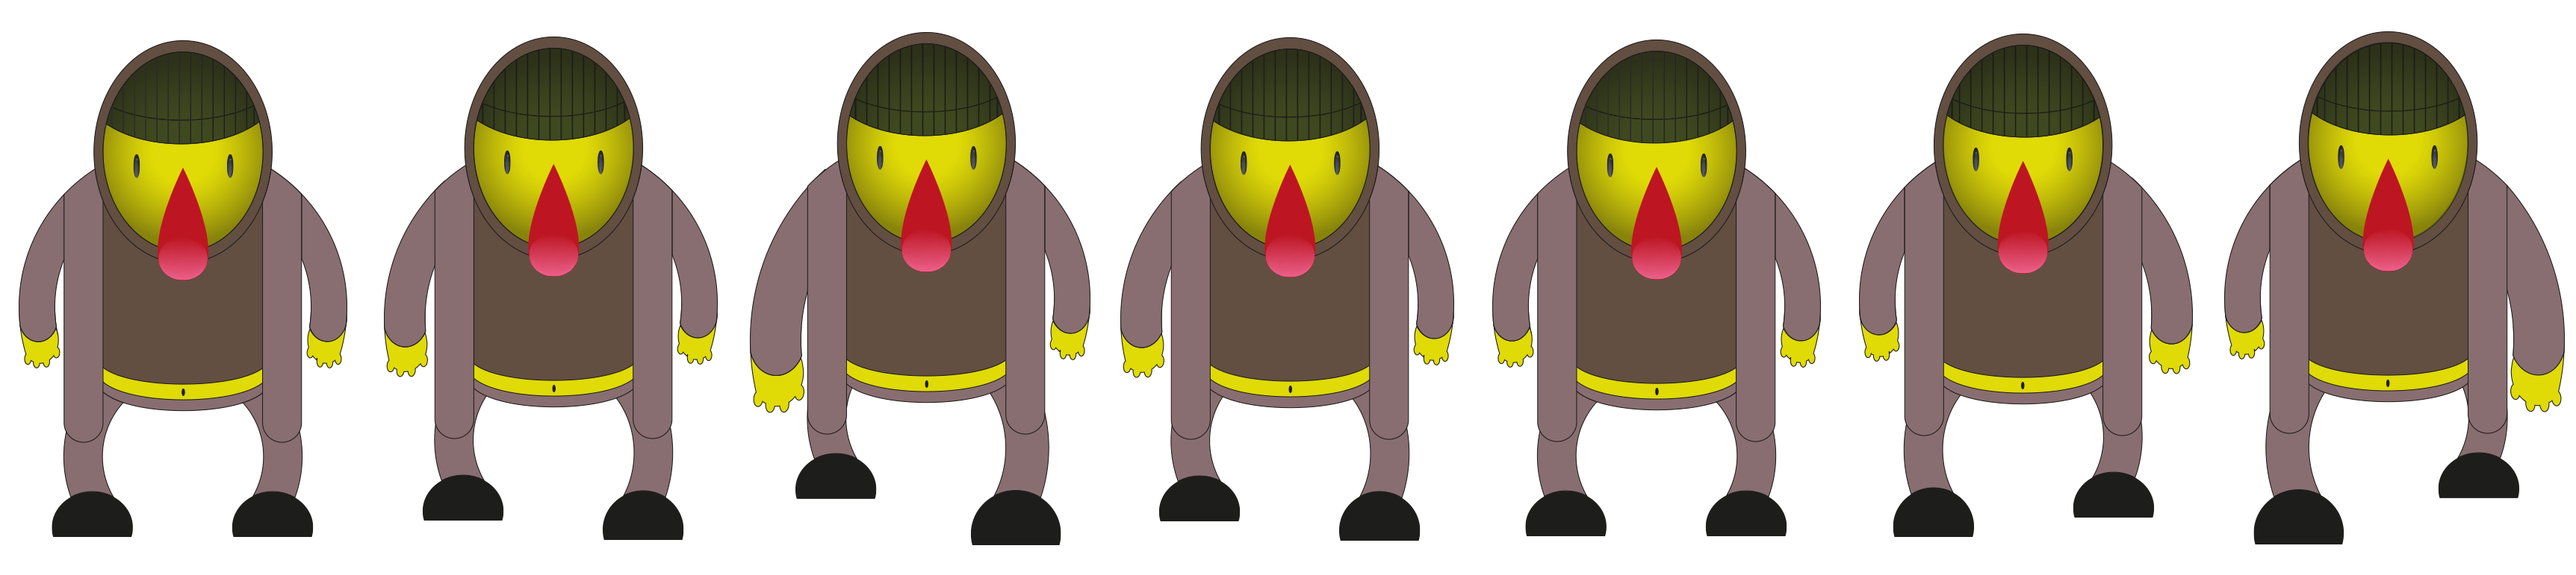
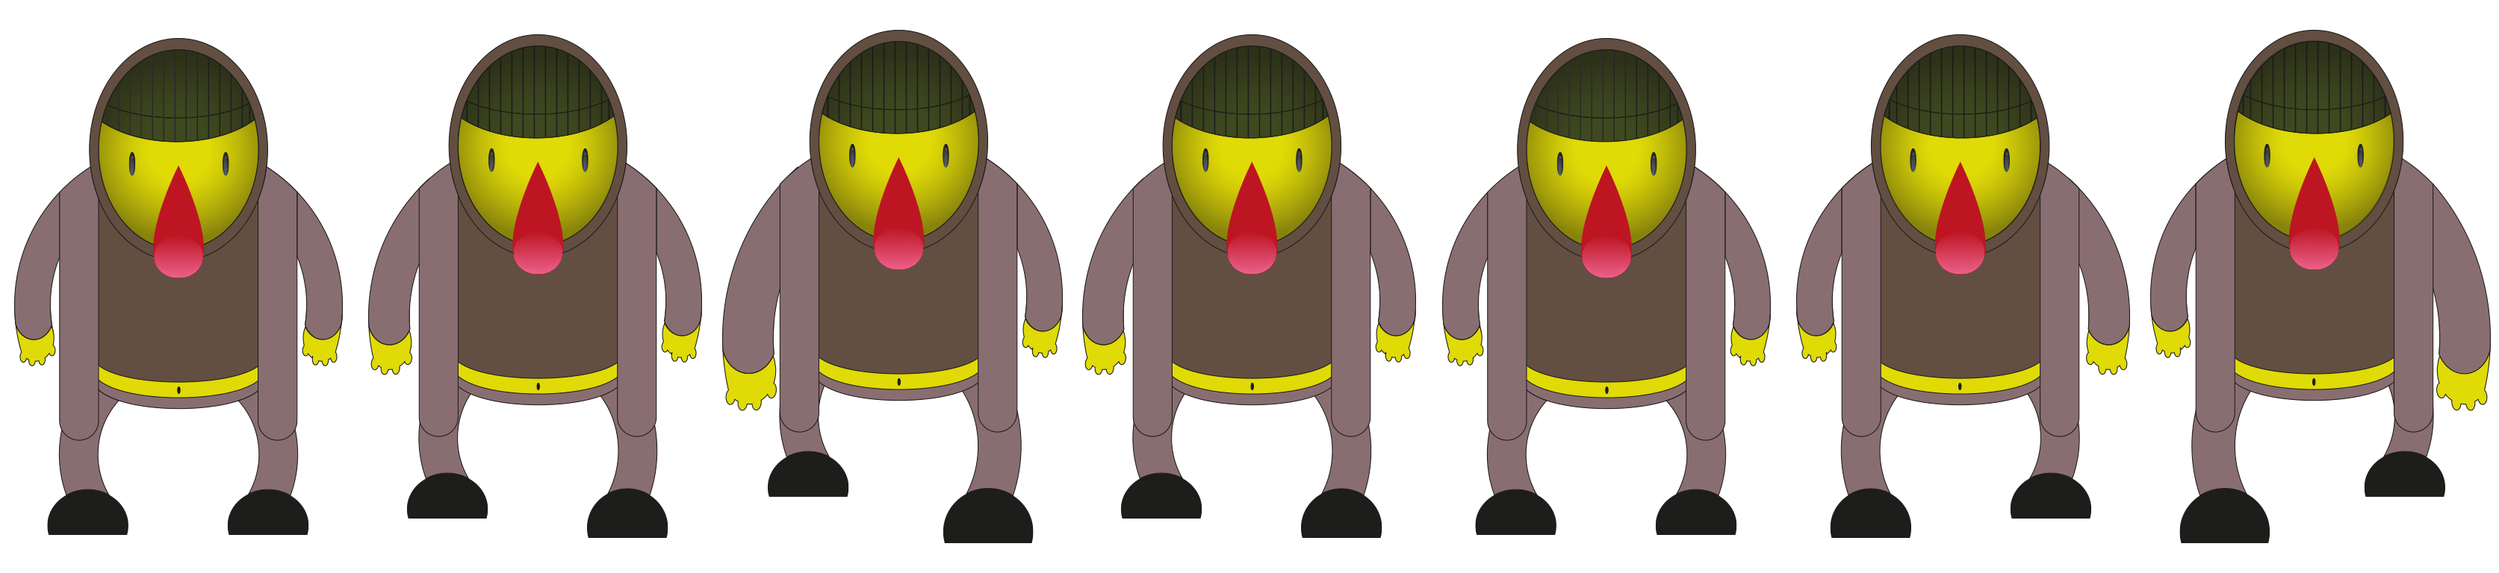
spriteSheet vomi et marche

diff --git a/fermeturedesbars/app/src/main/assets/www/action/personnage/Joueur.js b/fermeturedesbars/app/src/main/assets/www/action/personnage/Joueur.js
@@ -38,11 +38,11 @@ function Joueur(scene) {
     spriteIvrogne = new createjs.SpriteSheet(
       {
         images: [imageIvrogne],
-				frames: { "regX": 0, "height": 700, "count": 64, "regY": 0, "width": 400},
-				framerate: 6,
+				frames: { "regX": 32, "height": 700, "count": 0, "regY": 32, "width": 400},
+				framerate: 12,
 				animations:
 					{
-						"marche": [0, 7]
+						"marche": [0,7, "marche"]
 					}
       });
 
